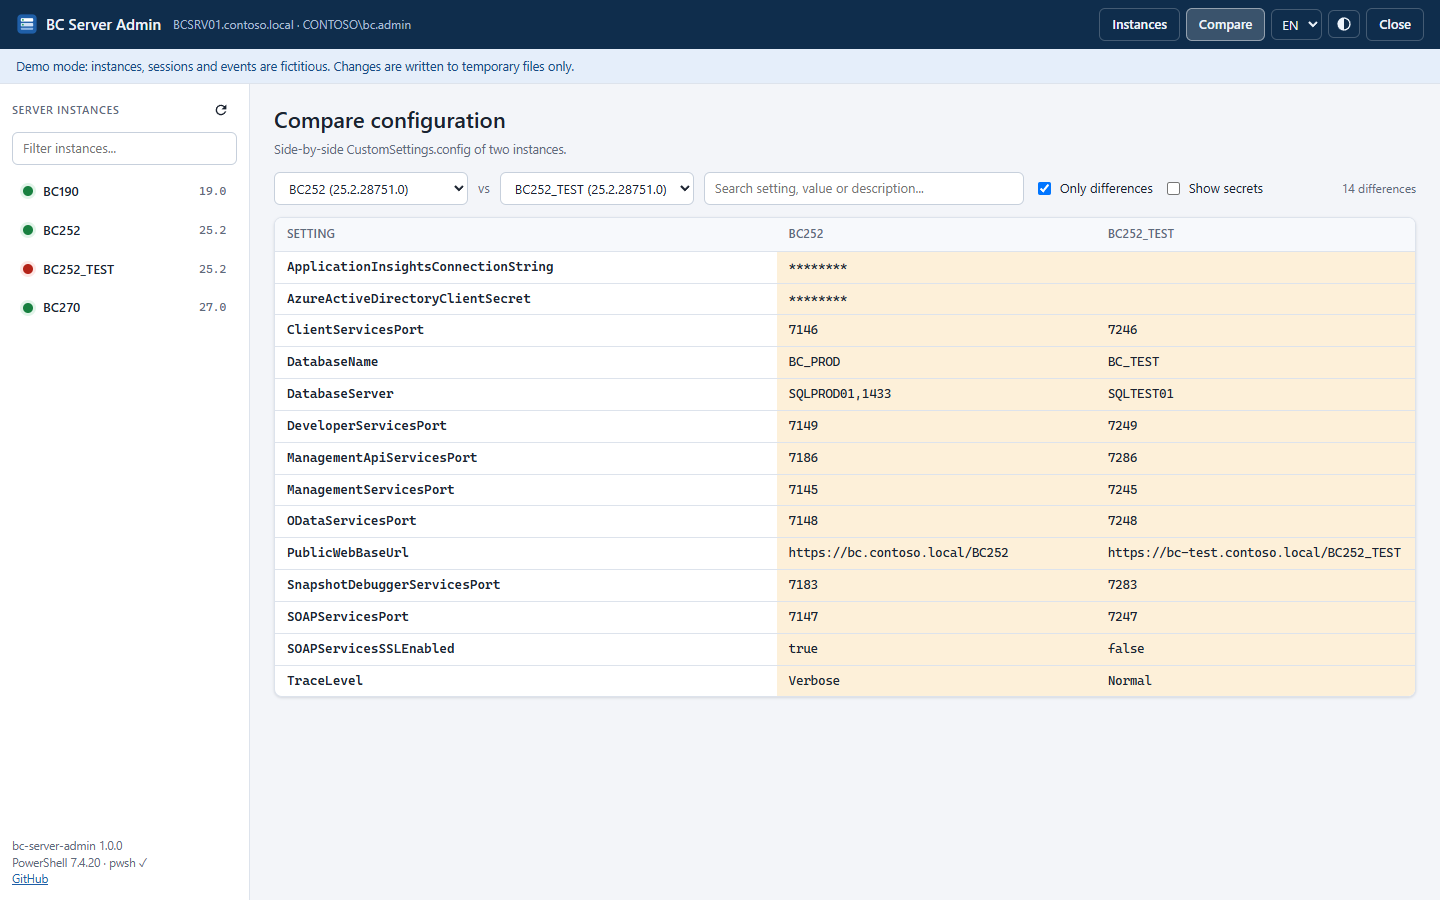
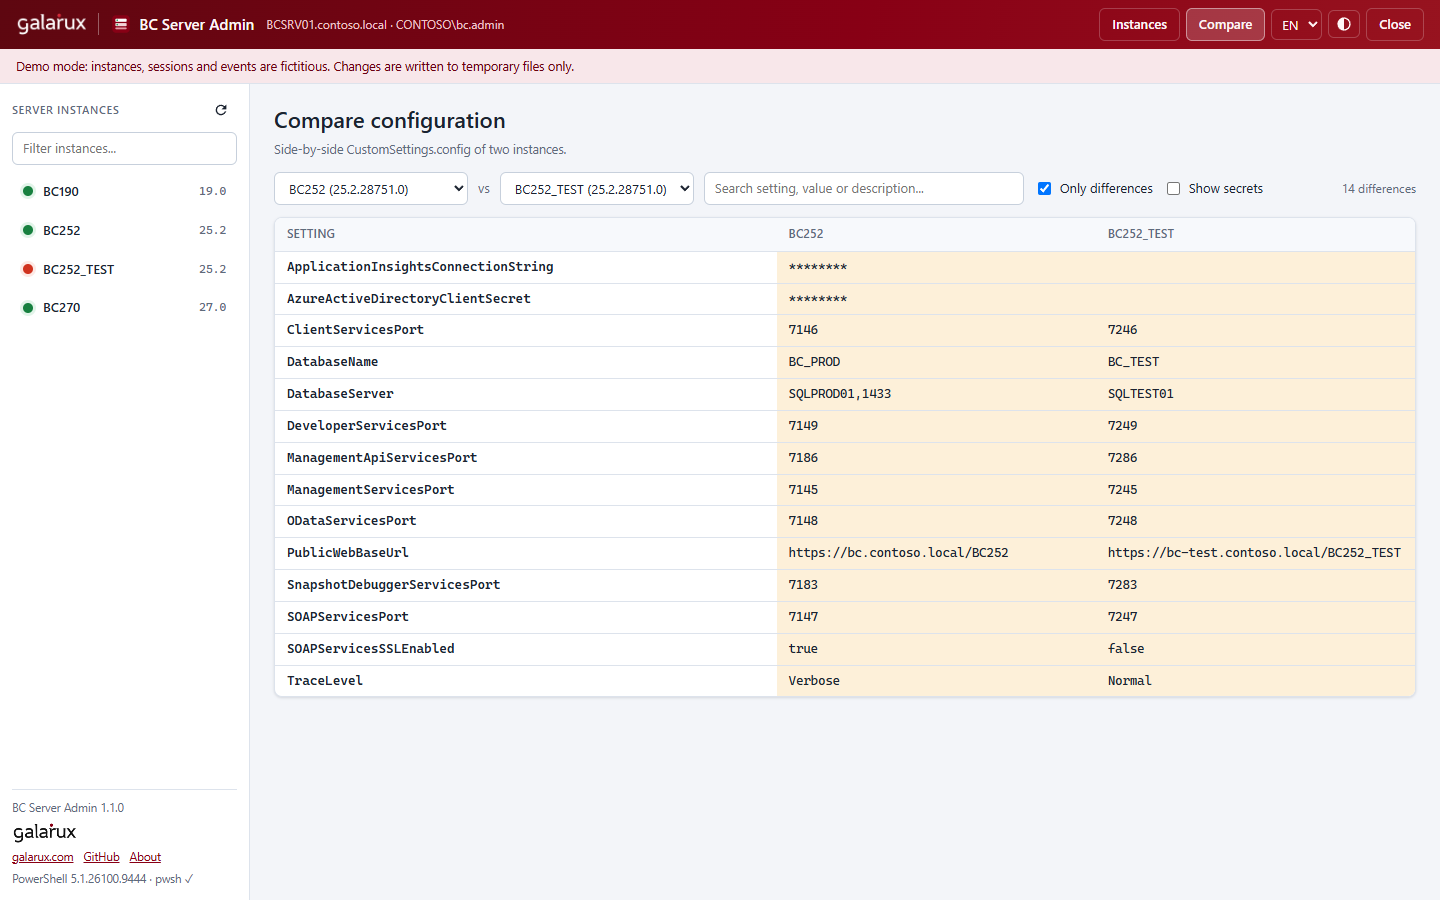
Add Galarux branding (1.1.0)
- Galarux logo in the top bar and sidebar, corporate colours in light
  and dark themes, and an About dialog with website, contact and products
- HTML export report with the embedded Galarux logo and links
- README banners, About Galarux section and social preview images
- Test: read the server log safely while it is still empty

Changed region(s): [[0.0, 0.0, 1.0, 0.0933], [0.0, 0.8711, 0.125, 0.9956]]

diff --git a/web/css/app.css b/web/css/app.css
@@ -6,21 +6,22 @@
   --border-strong: #c7d0dc;
   --text: #1b2330;
   --muted: #5f6b7c;
-  --accent: #1f5fa8;
-  --accent-strong: #174a85;
-  --accent-soft: #e5eefa;
+  --accent: #880015;
+  --accent-strong: #6a0010;
+  --accent-soft: #f8e7ea;
+  --accent-ink: #ffffff;
   --ok: #17803f;
   --ok-soft: #e2f4e9;
   --warn: #9a5800;
   --warn-soft: #fdf0d9;
-  --danger: #b42318;
-  --danger-soft: #fde7e5;
+  --danger: #d0331f;
+  --danger-soft: #fde9e5;
   --value: #0b6b38;
   --dirty: #fff4cc;
   --dirty-border: #e0b400;
-  --topbar: #0f2d4c;
-  --topbar-text: #eef4fb;
-  --topbar-muted: #a9bdd3;
+  --topbar: linear-gradient(100deg, #5e0710 0%, #880015 60%, #97131f 100%);
+  --topbar-text: #fff6f7;
+  --topbar-muted: #efc3c9;
   --shadow: 0 1px 2px rgba(16, 24, 40, .06), 0 1px 3px rgba(16, 24, 40, .08);
   --shadow-lg: 0 12px 32px rgba(16, 24, 40, .22);
   --radius: 8px;
@@ -37,21 +38,22 @@
     --border-strong: #3a4452;
     --text: #e3e8ef;
     --muted: #97a2b3;
-    --accent: #5ea3ec;
-    --accent-strong: #86baf1;
-    --accent-soft: #1a2a3e;
+    --accent: #f08c9a;
+    --accent-strong: #f6aeb8;
+    --accent-soft: #3a1a20;
+    --accent-ink: #2a070d;
     --ok: #4fc98c;
     --ok-soft: #14301f;
     --warn: #f1b45c;
     --warn-soft: #3a2c13;
-    --danger: #f27a70;
+    --danger: #ff9368;
     --danger-soft: #3b1b19;
     --value: #72d6a0;
     --dirty: #38310f;
     --dirty-border: #a88a1c;
-    --topbar: #0a1a2c;
-    --topbar-text: #e6eef8;
-    --topbar-muted: #8ea6c0;
+    --topbar: linear-gradient(100deg, #33060c 0%, #520a14 60%, #5e0d18 100%);
+    --topbar-text: #fbeef0;
+    --topbar-muted: #d9a7ae;
     --shadow: 0 1px 2px rgba(0, 0, 0, .4);
     --shadow-lg: 0 12px 32px rgba(0, 0, 0, .55);
     color-scheme: dark;
@@ -66,21 +68,22 @@
   --border-strong: #3a4452;
   --text: #e3e8ef;
   --muted: #97a2b3;
-  --accent: #5ea3ec;
-  --accent-strong: #86baf1;
-  --accent-soft: #1a2a3e;
+  --accent: #f08c9a;
+  --accent-strong: #f6aeb8;
+  --accent-soft: #3a1a20;
+  --accent-ink: #2a070d;
   --ok: #4fc98c;
   --ok-soft: #14301f;
   --warn: #f1b45c;
   --warn-soft: #3a2c13;
-  --danger: #f27a70;
+  --danger: #ff9368;
   --danger-soft: #3b1b19;
   --value: #72d6a0;
   --dirty: #38310f;
   --dirty-border: #a88a1c;
-  --topbar: #0a1a2c;
-  --topbar-text: #e6eef8;
-  --topbar-muted: #8ea6c0;
+  --topbar: linear-gradient(100deg, #33060c 0%, #520a14 60%, #5e0d18 100%);
+  --topbar-text: #fbeef0;
+  --topbar-muted: #d9a7ae;
   --shadow: 0 1px 2px rgba(0, 0, 0, .4);
   --shadow-lg: 0 12px 32px rgba(0, 0, 0, .55);
   color-scheme: dark;
@@ -113,7 +116,12 @@ code, .mono { font-family: var(--mono); font-size: 12px; }
   color: var(--topbar-text);
   flex-wrap: wrap;
 }
-.brand { display: flex; align-items: center; gap: 8px; font-weight: 600; font-size: 15px; white-space: nowrap; }
+.brand { display: flex; align-items: center; gap: 12px; white-space: nowrap; }
+.brand-company { display: inline-flex; align-items: center; border-radius: 4px; }
+.brand-company img { display: block; height: 22px; width: auto; }
+.brand-sep { width: 1px; height: 22px; background: rgba(255, 255, 255, .35); }
+.brand-product { display: inline-flex; align-items: center; gap: 8px; font-weight: 600; font-size: 15px; }
+.brand-product img { display: block; }
 .host { color: var(--topbar-muted); font-size: 12px; white-space: nowrap; overflow: hidden; text-overflow: ellipsis; }
 .spacer { flex: 1; }
 .top-actions { display: flex; align-items: center; gap: 6px; flex-wrap: wrap; }
@@ -124,7 +132,8 @@ code, .mono { font-family: var(--mono); font-size: 12px; }
 }
 .topbar .btn-top:hover:not(:disabled) { background: rgba(255, 255, 255, .1); }
 .topbar .btn-top.active { background: rgba(255, 255, 255, .18); border-color: rgba(255, 255, 255, .45); }
-.topbar .btn-close:hover:not(:disabled) { background: #b42318; border-color: #b42318; }
+.topbar .btn-close:hover:not(:disabled) { background: rgba(0, 0, 0, .35); border-color: rgba(255, 255, 255, .6); }
+.topbar a:focus-visible { outline: 2px solid #ffffff; outline-offset: 2px; }
 .top-select {
   background: transparent;
   color: var(--topbar-text);
@@ -247,10 +256,8 @@ code, .mono { font-family: var(--mono); font-size: 12px; }
 .btn:hover:not(:disabled) { background: var(--surface-2); }
 .btn:disabled { opacity: .45; cursor: not-allowed; }
 .btn:focus-visible, .input:focus-visible, select:focus-visible, .inst:focus-visible, .chip:focus-visible, .tab:focus-visible { outline: 2px solid var(--accent); outline-offset: 1px; }
-.btn-primary { background: var(--accent); border-color: var(--accent); color: #fff; }
+.btn-primary { background: var(--accent); border-color: var(--accent); color: var(--accent-ink); }
 .btn-primary:hover:not(:disabled) { background: var(--accent-strong); border-color: var(--accent-strong); }
-:root[data-theme="dark"] .btn-primary { color: #0b1624; }
-@media (prefers-color-scheme: dark) { :root:not([data-theme="light"]) .btn-primary { color: #0b1624; } }
 .btn-ok { color: var(--ok); }
 .btn-danger { color: var(--danger); }
 .btn-danger-solid { background: var(--danger); border-color: var(--danger); color: #fff; }
@@ -312,7 +319,7 @@ code, .mono { font-family: var(--mono); font-size: 12px; }
   cursor: pointer;
 }
 .chip:hover { border-color: var(--border-strong); }
-.chip.active { background: var(--accent); border-color: var(--accent); color: #fff; }
+.chip.active { background: var(--accent); border-color: var(--accent); color: var(--accent-ink); }
 .chip .n { opacity: .7; margin-left: 4px; }
 
 /* ---------- cards ---------- */
@@ -528,3 +535,25 @@ table.grid { width: 100%; border-collapse: collapse; }
 .grow { flex: 1; }
 .form-error { color: var(--danger); min-height: 1em; margin: 0; }
 #instHeader .banner { border: 1px solid transparent; border-radius: var(--radius); margin: -4px 0 14px; }
+
+/* ---------- company (Galarux) ---------- */
+.logo-on-dark { display: none; }
+@media (prefers-color-scheme: dark) {
+  :root:not([data-theme="light"]) .logo-on-light { display: none; }
+  :root:not([data-theme="light"]) .logo-on-dark { display: inline-block; }
+}
+:root[data-theme="dark"] .logo-on-light { display: none; }
+:root[data-theme="dark"] .logo-on-dark { display: inline-block; }
+
+.company { display: flex; flex-direction: column; gap: 6px; padding-top: 10px; border-top: 1px solid var(--border); }
+.company-logo { display: inline-flex; width: fit-content; }
+.company-logo img { height: 20px; width: auto; }
+.company-links { display: flex; flex-wrap: wrap; gap: 4px 10px; }
+.link-button { border: 0; padding: 0; background: none; color: var(--accent); font: inherit; cursor: pointer; text-decoration: underline; }
+
+.about { display: flex; flex-direction: column; gap: 12px; }
+.about-logo img { height: 34px; width: auto; }
+.about p { margin: 0; }
+.about-links { list-style: none; margin: 0; padding: 0; display: grid; grid-template-columns: max-content 1fr; gap: 6px 14px; }
+.about-links dt { color: var(--muted); }
+.about-links dd { margin: 0; word-break: break-word; }

diff --git a/web/js/app.js b/web/js/app.js
@@ -3,6 +3,13 @@
   'use strict';
 
   const I18N = window.BCSA_I18N;
+  const REPO_URL = 'https://github.com/galarux/bc-server-admin';
+  const COMPANY = {
+    name: 'Galarux',
+    url: 'https://galarux.com',
+    email: 'info@galarux.com',
+    productUrl: 'https://galarux.com/productos/galaruxgantt/'
+  };
   const EVENT_LEVELS = { errors: 2, warnings: 3, all: 5 };
   const SESSION_COLUMNS = [
     ['SessionID', 'colSessionId'],
@@ -291,15 +298,49 @@
     const info = state.info;
     if (!info) return;
     $('#hostInfo').textContent = info.fqdn + ' · ' + info.user;
-    $('#sidebarFoot').replaceChildren(
-      h('div', null, 'bc-server-admin ' + info.version),
-      h('div', null, 'PowerShell ' + info.psVersion + (info.pwshAvailable ? ' · pwsh ✓' : '')),
-      h('a', { href: 'https://github.com/galarux/bc-server-admin', target: '_blank', rel: 'noopener noreferrer' }, 'GitHub')
-    );
+    $('#sidebarFoot').replaceChildren(h('div', { class: 'company' },
+      h('div', null, 'BC Server Admin ' + info.version),
+      h('a', { class: 'company-logo', href: COMPANY.url, target: '_blank', rel: 'noopener noreferrer', title: t('madeBy') + ' ' + COMPANY.name },
+        companyLogo()),
+      h('div', { class: 'company-links' },
+        extLink(COMPANY.url, 'galarux.com'),
+        extLink(REPO_URL, 'GitHub'),
+        h('button', { type: 'button', class: 'link-button', onclick: showAbout }, t('about'))),
+      h('div', null, 'PowerShell ' + info.psVersion + (info.pwshAvailable ? ' \u00b7 pwsh \u2713' : ''))));
     const banners = [];
     if (info.demo) banners.push(h('div', { class: 'banner info' }, t('demoBanner')));
     if (!info.isAdmin && !info.demo) banners.push(h('div', { class: 'banner warn' }, t('notAdminBanner')));
     $('#banners').replaceChildren(...banners);
+  }
+
+  function extLink(href, text) {
+    const external = /^https?:/.test(href);
+    return h('a', { href, target: external ? '_blank' : null, rel: external ? 'noopener noreferrer' : null }, text);
+  }
+
+  function companyLogo() {
+    return [
+      h('img', { class: 'logo-on-light', src: 'img/galarux-logo.png', alt: COMPANY.name }),
+      h('img', { class: 'logo-on-dark', src: 'img/galarux-logo-white.png', alt: COMPANY.name })
+    ];
+  }
+
+  function showAbout() {
+    const info = state.info || {};
+    openDialog({
+      title: t('aboutTitle'),
+      body: h('div', { class: 'about' },
+        h('a', { class: 'about-logo', href: COMPANY.url, target: '_blank', rel: 'noopener noreferrer' }, companyLogo()),
+        h('p', null, h('strong', { text: 'BC Server Admin ' + (info.version || '') })),
+        h('p', null, t('aboutText')),
+        h('p', { class: 'muted' }, t('aboutHelp')),
+        h('dl', { class: 'about-links' },
+          h('dt', { text: t('aboutWeb') }), h('dd', null, extLink(COMPANY.url, 'galarux.com')),
+          h('dt', { text: t('aboutContact') }), h('dd', null, extLink('mailto:' + COMPANY.email, COMPANY.email)),
+          h('dt', { text: t('aboutProducts') }), h('dd', null, extLink(COMPANY.productUrl, 'Galarux Gantt')),
+          h('dt', { text: t('aboutSource') }), h('dd', null, extLink(REPO_URL, 'github.com/galarux/bc-server-admin')),
+          h('dt', { text: t('aboutLicense') }), h('dd', null, extLink(REPO_URL + '/blob/main/LICENSE', 'MIT'))))
+    });
   }
 
   function applyTheme(theme) {

diff --git a/web/js/i18n.js b/web/js/i18n.js
@@ -212,7 +212,18 @@ window.BCSA_I18N = {
     shutdownText: 'The local web server stops. Business Central instances are not affected.',
     shutdownTextEdits: 'You have {n} unsaved change(s) that will be lost. The local web server stops; Business Central instances are not affected.',
     stoppedTitle: 'BC Server Admin was closed',
-    stoppedText: 'You can close this tab. Run Start-BCServerAdmin again to reopen it.'
+    stoppedText: 'You can close this tab. Run Start-BCServerAdmin again to reopen it.',
+
+    about: 'About',
+    madeBy: 'Made by',
+    aboutTitle: 'About BC Server Admin',
+    aboutText: 'A free, open-source tool by Galarux, Microsoft partner specialised in Business Central.',
+    aboutHelp: 'Need a hand with Business Central? Galarux offers support, custom developments and vertical solutions such as Galarux Gantt.',
+    aboutWeb: 'Website',
+    aboutContact: 'Contact',
+    aboutProducts: 'Products',
+    aboutSource: 'Source code',
+    aboutLicense: 'License'
   },
 
   es: {
@@ -427,6 +438,17 @@ window.BCSA_I18N = {
     shutdownText: 'Se detiene el servidor web local. Las instancias de Business Central no se ven afectadas.',
     shutdownTextEdits: 'Tienes {n} cambio(s) sin guardar que se perderán. Se detiene el servidor web local; las instancias de Business Central no se ven afectadas.',
     stoppedTitle: 'BC Server Admin se ha cerrado',
-    stoppedText: 'Puedes cerrar esta pestaña. Ejecuta Start-BCServerAdmin otra vez para volver a abrirlo.'
+    stoppedText: 'Puedes cerrar esta pestaña. Ejecuta Start-BCServerAdmin otra vez para volver a abrirlo.',
+
+    about: 'Acerca de',
+    madeBy: 'Hecho por',
+    aboutTitle: 'Acerca de BC Server Admin',
+    aboutText: 'Herramienta gratuita y open source de Galarux, partner de Microsoft especializado en Business Central.',
+    aboutHelp: '¿Necesitas ayuda con Business Central? En Galarux ofrecemos soporte, desarrollos a medida y soluciones verticales como Galarux Gantt.',
+    aboutWeb: 'Web',
+    aboutContact: 'Contacto',
+    aboutProducts: 'Productos',
+    aboutSource: 'Código fuente',
+    aboutLicense: 'Licencia'
   }
 };

diff --git a/web/index.html b/web/index.html
@@ -13,8 +13,14 @@
 <body>
   <header class="topbar">
     <div class="brand">
-      <img src="favicon.svg" alt="" width="22" height="22">
-      <span>BC Server Admin</span>
+      <a class="brand-company" href="https://galarux.com" target="_blank" rel="noopener noreferrer" title="galarux.com">
+        <img src="img/galarux-logo-white.png" alt="Galarux" width="70" height="22">
+      </a>
+      <span class="brand-sep" aria-hidden="true"></span>
+      <span class="brand-product">
+        <img src="favicon.svg" alt="" width="20" height="20">
+        <span>BC Server Admin</span>
+      </span>
     </div>
     <div class="host" id="hostInfo"></div>
     <div class="spacer"></div>

diff --git a/README.es.md b/README.es.md
@@ -1,3 +1,7 @@
+<p align="center">
+  <a href="https://galarux.com"><img src="docs/images/banner-es.jpg" alt="Galarux - Soluciones inteligentes para Business Central"></a>
+</p>
+
 # BC Server Admin
 
 [![CI](https://github.com/galarux/bc-server-admin/actions/workflows/ci.yml/badge.svg)](https://github.com/galarux/bc-server-admin/actions/workflows/ci.yml)
@@ -7,6 +11,8 @@
 **Sustituto web de la herramienta de administración del servidor de Business Central (la consola MMC) para Microsoft Dynamics 365 Business Central on-premises.**
 
 Las versiones recientes de Business Central ya no incluyen el complemento MMC. Administrar una instancia obliga a usar cmdlets de PowerShell o a editar `CustomSettings.config` a mano. BC Server Admin recupera esa consola como una página web local: un único script de PowerShell, sin instalador ni dependencias, que funciona con todas las instancias de Business Central / NAV instaladas en el equipo.
+
+Herramienta gratuita y open source de **[Galarux](https://galarux.com)**, partner de Microsoft especializado en Business Central.
 
 [Read in English](README.md)
 
@@ -162,6 +168,26 @@ Se agradecen incidencias y pull requests. Si informas de un error, indica tu ver
 
 Desarrollado contra Business Central 19 y el modo demo integrado; las pruebas se ejecutan en Windows PowerShell 5.1 y PowerShell 7. El cargador de módulos sigue las estructuras que usa Microsoft desde NAV 2018 / BC 14 hasta BC 29, pero las versiones distintas de BC 19 aún no se han verificado en un servidor real. Si algo no funciona con la tuya, [abre una incidencia](https://github.com/galarux/bc-server-admin/issues).
 
+## Sobre Galarux
+
+<a href="https://galarux.com">
+  <picture>
+    <source media="(prefers-color-scheme: dark)" srcset="web/img/galarux-logo-white.png">
+    <img src="web/img/galarux-logo.png" alt="Galarux" height="48">
+  </picture>
+</a>
+
+BC Server Admin lo desarrolla y mantiene **Galarux**, partner oficial de Microsoft especializado en Business Central. Ofrecemos soporte, desarrollos a medida y soluciones verticales como [Galarux Gantt](https://galarux.com/productos/galaruxgantt/), y damos apoyo a otros partners en picos de trabajo.
+
+- Web: [galarux.com](https://galarux.com)
+- Contacto: [info@galarux.com](mailto:info@galarux.com)
+
+¿Necesitas ayuda con tus servidores de Business Central? Escríbenos.
+
 ## Licencia
 
-[MIT](LICENSE). Este proyecto no está afiliado a Microsoft ni cuenta con su respaldo. Microsoft Dynamics 365 Business Central y Dynamics NAV son marcas de Microsoft Corporation.
+[MIT](LICENSE), © 2026 Galarux Software and Consulting S.L.
+
+El nombre y los logos de Galarux (`web/img/galarux-*`, `docs/images/banner-*`, `docs/images/**/social-preview.png`) no están cubiertos por la licencia MIT. Retíralos de las copias que redistribuyas con otro nombre.
+
+Este proyecto no está afiliado a Microsoft ni cuenta con su respaldo. Microsoft Dynamics 365 Business Central y Dynamics NAV son marcas de Microsoft Corporation.

diff --git a/README.md b/README.md
@@ -1,3 +1,7 @@
+<p align="center">
+  <a href="https://galarux.com"><img src="docs/images/banner-en.jpg" alt="Galarux - Smart Solutions for Business Central"></a>
+</p>
+
 # BC Server Admin
 
 [![CI](https://github.com/galarux/bc-server-admin/actions/workflows/ci.yml/badge.svg)](https://github.com/galarux/bc-server-admin/actions/workflows/ci.yml)
@@ -7,6 +11,8 @@
 **A web-based replacement for the Business Central Server Administration tool (the MMC console) for Microsoft Dynamics 365 Business Central on-premises.**
 
 Recent versions of Business Central no longer ship the old MMC snap-in, so managing a server instance means using PowerShell cmdlets or editing `CustomSettings.config` by hand. BC Server Admin gives you that console back as a local web page. It is a single PowerShell script with no installer and no dependencies, and it works with every Business Central / NAV instance installed on the machine.
+
+A free, open-source tool by **[Galarux](https://galarux.com)**, Microsoft partner specialised in Business Central.
 
 [Leer en español](README.es.md)
 
@@ -162,6 +168,26 @@ Issues and pull requests are welcome. For a bug, include your BC version and the
 
 Developed against Business Central 19 and the built-in demo mode. Tests run on Windows PowerShell 5.1 and PowerShell 7. The module loader follows the layouts Microsoft uses from NAV 2018 / BC 14 up to BC 29, but versions other than BC 19 have not been verified on a real server yet. If something does not work with yours, please [open an issue](https://github.com/galarux/bc-server-admin/issues).
 
+## About Galarux
+
+<a href="https://galarux.com">
+  <picture>
+    <source media="(prefers-color-scheme: dark)" srcset="web/img/galarux-logo-white.png">
+    <img src="web/img/galarux-logo.png" alt="Galarux" height="48">
+  </picture>
+</a>
+
+BC Server Admin is developed and maintained by **Galarux**, an official Microsoft partner specialised in Business Central. We provide support, custom development and vertical solutions such as [Galarux Gantt](https://galarux.com/productos/galaruxgantt/), and we help other partners during workload peaks.
+
+- Website: [galarux.com](https://galarux.com)
+- Contact: [info@galarux.com](mailto:info@galarux.com)
+
+Need a hand with your Business Central servers? Get in touch.
+
 ## License
 
-[MIT](LICENSE). This project is not affiliated with or endorsed by Microsoft. Microsoft Dynamics 365 Business Central and Dynamics NAV are trademarks of Microsoft Corporation.
+[MIT](LICENSE), © 2026 Galarux Software and Consulting S.L.
+
+The Galarux name and logos (`web/img/galarux-*`, `docs/images/banner-*`, `docs/images/**/social-preview.png`) are not covered by the MIT license. Remove them from forks you redistribute under another name.
+
+This project is not affiliated with or endorsed by Microsoft. Microsoft Dynamics 365 Business Central and Dynamics NAV are trademarks of Microsoft Corporation.

diff --git a/CHANGELOG.md b/CHANGELOG.md
@@ -2,6 +2,14 @@
 
 All notable changes to this project are documented here. The format follows [Keep a Changelog](https://keepachangelog.com/) and the project uses [Semantic Versioning](https://semver.org/).
 
+## [1.1.0] - 2026-09-16
+
+### Added
+
+- Galarux branding: logo in the top bar and sidebar, corporate colours in both themes, and an **About** dialog with website, contact and products.
+- The HTML export report carries the Galarux logo (embedded, so the file stays standalone) and links.
+- README banners and a social preview image (`docs/images/social-preview.png`).
+
 ## [1.0.0] - 2026-09-16
 
 ### Added
@@ -18,4 +26,5 @@ All notable changes to this project are documented here. The format follows [Kee
 - One PowerShell worker process per BC version so side-by-side installations work; PowerShell 7 is used for BC 24-28 when available.
 - `-Demo` mode with fictitious instances, used by the tests and the screenshots.
 
+[1.1.0]: https://github.com/galarux/bc-server-admin/releases/tag/v1.1.0
 [1.0.0]: https://github.com/galarux/bc-server-admin/releases/tag/v1.0.0
